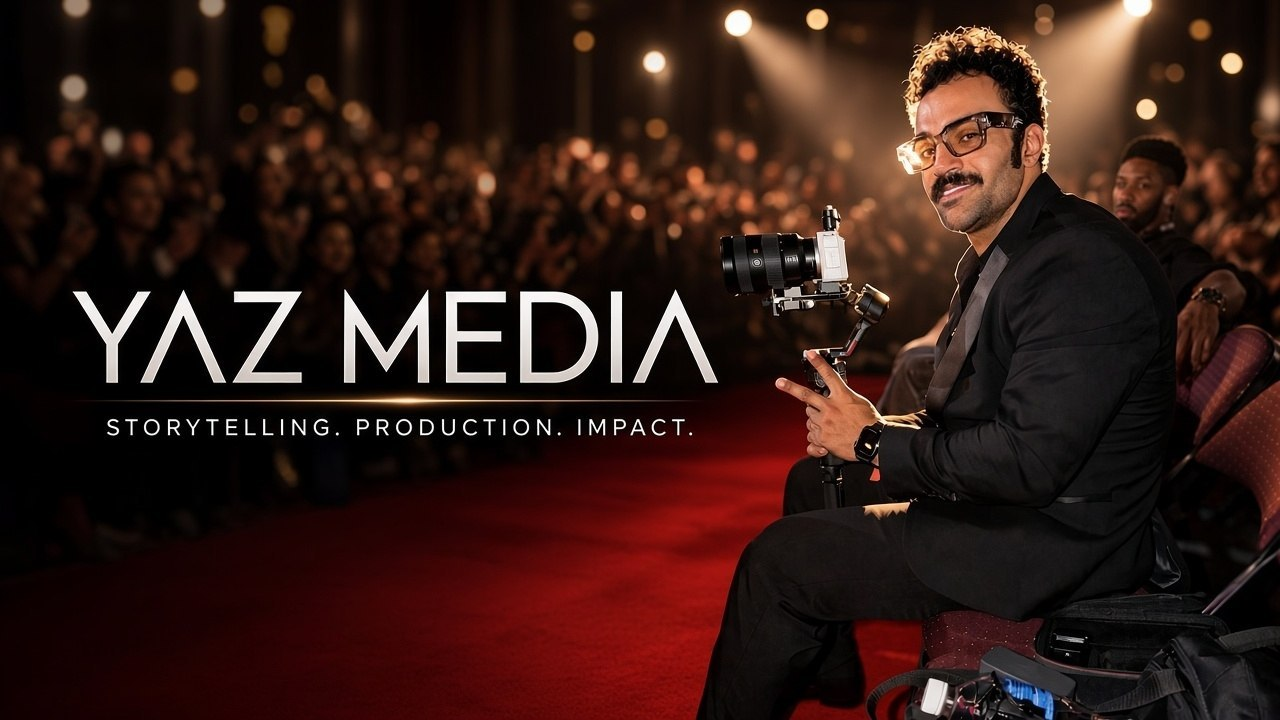
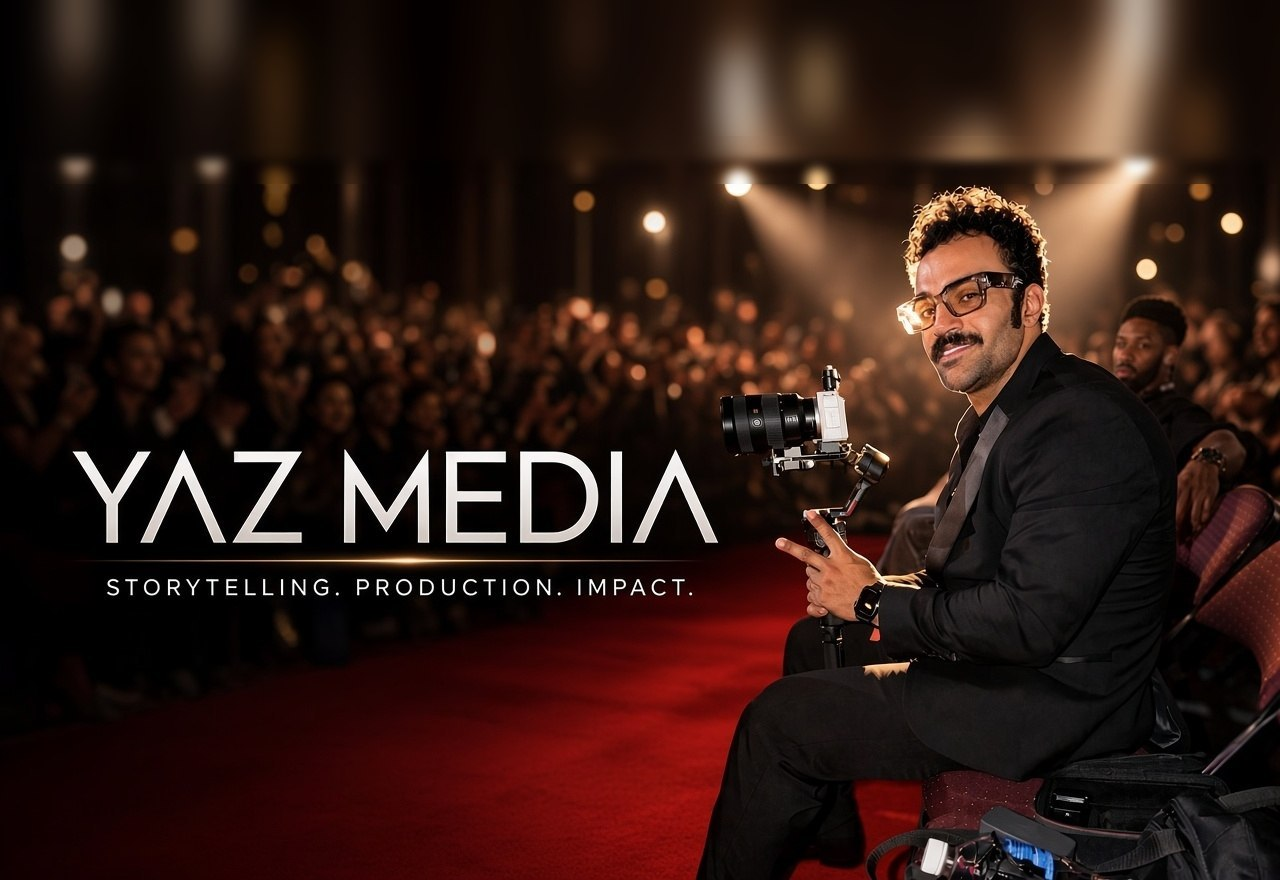
photos: hero headroom (blurred top extension so the subject clears the fixed header) + themed free-license stock photos from Wikimedia Commons across portfolio cards, featured work and services sections (CC0/PD/CC BY/CC BY-SA, credits in assets/img/stock/CREDITS.md); cache-busted stylesheet links

diff --git a/work.html b/work.html
@@ -9,7 +9,7 @@
   <link rel="stylesheet" href="css/fonts.css">
   <link rel="stylesheet" href="vendor/bootstrap/bootstrap.min.css">
   <link rel="stylesheet" href="vendor/icons/bootstrap-icons.css">
-  <link rel="stylesheet" href="css/theme.css">
+  <link rel="stylesheet" href="css/theme.css?v=3">
 </head>
 <body class="grain">
 
@@ -67,28 +67,28 @@
       <div class="row g-4">
         <div class="col-md-6 col-lg-4 work-grid-item reveal">
 <a class="work-card" href="contact.html" data-cat="wedding">
-            <img class="card-photo" src="assets/img/ropes.jpg" alt="" loading="lazy" style="object-position:center 30%;">
+            <img class="card-photo" src="assets/img/stock/stock-wedding-dance-1.jpg" alt="" loading="lazy" style="object-position:center 40%">
             <span class="dur">04:20</span><span class="play-hint"><i class="bi bi-play-fill" aria-hidden="true"></i></span>
             <div class="meta"><span class="cat">Wedding Film</span><span class="title">Amara &amp; Daniel — Big Sur Coast</span></div>
           </a>
         </div>
         <div class="col-md-6 col-lg-4 work-grid-item reveal reveal-d1">
 <a class="work-card" href="contact.html" data-cat="commercial">
-            <img class="card-photo" src="assets/img/tripod.jpg" alt="" loading="lazy" style="object-position:center top;">
+            <img class="card-photo" src="assets/img/stock/stock-hotel.jpg" alt="" loading="lazy" style="object-position:center 45%">
             <span class="dur">01:30</span><span class="play-hint"><i class="bi bi-play-fill" aria-hidden="true"></i></span>
             <div class="meta"><span class="cat">Commercial</span><span class="title">Westwind Hotels — "Stay Awhile"</span></div>
           </a>
         </div>
         <div class="col-md-6 col-lg-4 work-grid-item reveal reveal-d2">
 <a class="work-card" href="contact.html" data-cat="music">
-            <img class="card-photo" src="assets/img/crowd.jpg" alt="" loading="lazy" style="object-position:center 20%;">
+            <img class="card-photo" src="assets/img/stock/stock-crowd-concert.jpg" alt="" loading="lazy" style="object-position:center 55%">
             <span class="dur">03:05</span><span class="play-hint"><i class="bi bi-play-fill" aria-hidden="true"></i></span>
             <div class="meta"><span class="cat">Music Video</span><span class="title">"Golden Hour" — Pacific Arts Collective</span></div>
           </a>
         </div>
         <div class="col-md-6 col-lg-4 work-grid-item reveal">
 <a class="work-card" href="contact.html" data-cat="ceremony">
-            <img class="card-photo" src="assets/img/carpet.jpg" alt="" loading="lazy" style="object-position:left center;">
+            <img class="card-photo" src="assets/img/stock/stock-persian-wedding.jpg" alt="" loading="lazy" style="object-position:center 22%">
             <span class="dur">06:48</span><span class="play-hint"><i class="bi bi-play-fill" aria-hidden="true"></i></span>
             <div class="meta"><span class="cat">Ceremony Film</span><span class="title">A Multi-Day Persian Wedding — Beverly Hills</span></div>
           </a>
@@ -102,21 +102,21 @@
         </div>
         <div class="col-md-6 col-lg-4 work-grid-item reveal reveal-d2">
 <a class="work-card" href="contact.html" data-cat="wedding">
-            <img class="card-photo" src="assets/img/camera-close.jpg" alt="" loading="lazy" style="object-position:center 30%;">
+            <img class="card-photo" src="assets/img/stock/stock-winter-wedding.jpg" alt="" loading="lazy" style="object-position:center 30%">
             <span class="dur">05:12</span><span class="play-hint"><i class="bi bi-play-fill" aria-hidden="true"></i></span>
             <div class="meta"><span class="cat">Wedding Film</span><span class="title">Elise &amp; Noor — Lake Tahoe Winter</span></div>
           </a>
         </div>
         <div class="col-md-6 col-lg-4 work-grid-item reveal">
 <a class="work-card" href="contact.html" data-cat="event">
-            <img class="card-photo" src="assets/img/crowd.jpg" alt="" loading="lazy" style="object-position:center 75%;">
+            <img class="card-photo" src="assets/img/stock/stock-runway.jpg" alt="" loading="lazy" style="object-position:center top">
             <span class="dur">02:10</span><span class="play-hint"><i class="bi bi-play-fill" aria-hidden="true"></i></span>
             <div class="meta"><span class="cat">Event Coverage</span><span class="title">LA Bridal Week — Runway Highlights</span></div>
           </a>
         </div>
         <div class="col-md-6 col-lg-4 work-grid-item reveal reveal-d1">
 <a class="work-card" href="contact.html" data-cat="commercial">
-            <img class="card-photo" src="assets/img/camera-close.jpg" alt="" loading="lazy" style="object-position:center 12%;">
+            <img class="card-photo" src="assets/img/stock/stock-broadcast.jpg" alt="" loading="lazy" style="object-position:center 55%">
             <span class="dur">00:45</span><span class="play-hint"><i class="bi bi-play-fill" aria-hidden="true"></i></span>
             <div class="meta"><span class="cat">Commercial</span><span class="title">Sable &amp; Co. — "Made Slow"</span></div>
           </a>
@@ -130,14 +130,14 @@
         </div>
         <div class="col-md-6 col-lg-4 work-grid-item reveal">
 <a class="work-card" href="contact.html" data-cat="ceremony">
-            <img class="card-photo" src="assets/img/ropes.jpg" alt="" loading="lazy" style="object-position:center 65%;">
+            <img class="card-photo" src="assets/img/stock/stock-graduation.jpg" alt="" loading="lazy" style="object-position:center 55%">
             <span class="dur">08:02</span><span class="play-hint"><i class="bi bi-play-fill" aria-hidden="true"></i></span>
             <div class="meta"><span class="cat">Ceremony Film</span><span class="title">Graduation — Meridian Events, San Diego</span></div>
           </a>
         </div>
         <div class="col-md-6 col-lg-4 work-grid-item reveal reveal-d1">
 <a class="work-card" href="contact.html" data-cat="event">
-            <img class="card-photo" src="assets/img/tripod.jpg" alt="" loading="lazy" style="object-position:center 40%;">
+            <img class="card-photo" src="assets/img/stock/stock-concert.jpg" alt="" loading="lazy" style="object-position:center 50%">
             <span class="dur">01:55</span><span class="play-hint"><i class="bi bi-play-fill" aria-hidden="true"></i></span>
             <div class="meta"><span class="cat">Live Stream</span><span class="title">Annual Gala — Pacific Arts Collective</span></div>
           </a>

diff --git a/index.html b/index.html
@@ -12,7 +12,7 @@
   <link rel="stylesheet" href="css/fonts.css">
   <link rel="stylesheet" href="vendor/bootstrap/bootstrap.min.css">
   <link rel="stylesheet" href="vendor/icons/bootstrap-icons.css">
-  <link rel="stylesheet" href="css/theme.css">
+  <link rel="stylesheet" href="css/theme.css?v=3">
   <script type="application/ld+json">
   {
     "@context": "https://schema.org",
@@ -208,28 +208,28 @@
       <div class="row g-4">
         <div class="col-md-6 col-lg-4 work-grid-item reveal">
 <a class="work-card" href="work.html">
-            <img class="card-photo" src="assets/img/ropes.jpg" alt="" loading="lazy" style="object-position:center 30%;">
+            <img class="card-photo" src="assets/img/stock/stock-wedding-dance-1.jpg" alt="" loading="lazy" style="object-position:center 40%">
             <span class="dur">04:20</span><span class="play-hint"><i class="bi bi-play-fill" aria-hidden="true"></i></span>
             <div class="meta"><span class="cat">Wedding Film</span><span class="title">Amara &amp; Daniel — Big Sur Coast</span></div>
           </a>
         </div>
         <div class="col-md-6 col-lg-4 work-grid-item reveal reveal-d1">
 <a class="work-card" href="work.html">
-            <img class="card-photo" src="assets/img/tripod.jpg" alt="" loading="lazy" style="object-position:center top;">
+            <img class="card-photo" src="assets/img/stock/stock-hotel.jpg" alt="" loading="lazy" style="object-position:center top;">
             <span class="dur">01:30</span><span class="play-hint"><i class="bi bi-play-fill" aria-hidden="true"></i></span>
             <div class="meta"><span class="cat">Commercial</span><span class="title">Westwind Hotels — "Stay Awhile"</span></div>
           </a>
         </div>
         <div class="col-md-6 col-lg-4 work-grid-item reveal reveal-d2">
 <a class="work-card" href="work.html">
-            <img class="card-photo" src="assets/img/crowd.jpg" alt="" loading="lazy" style="object-position:center 20%;">
+            <img class="card-photo" src="assets/img/stock/stock-crowd-concert.jpg" alt="" loading="lazy" style="object-position:center 55%">
             <span class="dur">03:05</span><span class="play-hint"><i class="bi bi-play-fill" aria-hidden="true"></i></span>
             <div class="meta"><span class="cat">Music Video</span><span class="title">"Golden Hour" — Pacific Arts Collective</span></div>
           </a>
         </div>
         <div class="col-md-6 col-lg-4 work-grid-item reveal">
 <a class="work-card" href="work.html">
-            <img class="card-photo" src="assets/img/carpet.jpg" alt="" loading="lazy" style="object-position:left center;">
+            <img class="card-photo" src="assets/img/stock/stock-persian-wedding.jpg" alt="" loading="lazy" style="object-position:center 22%">
             <span class="dur">06:48</span><span class="play-hint"><i class="bi bi-play-fill" aria-hidden="true"></i></span>
             <div class="meta"><span class="cat">Ceremony Film</span><span class="title">A Multi-Day Persian Wedding — Beverly Hills</span></div>
           </a>
@@ -243,7 +243,7 @@
         </div>
         <div class="col-md-6 col-lg-4 work-grid-item reveal reveal-d2">
 <a class="work-card" href="work.html">
-            <img class="card-photo" src="assets/img/camera-close.jpg" alt="" loading="lazy" style="object-position:center 30%;">
+            <img class="card-photo" src="assets/img/stock/stock-film-set-1.jpg" alt="" loading="lazy" style="object-position:center 35%">
             <span class="dur">05:12</span><span class="play-hint"><i class="bi bi-play-fill" aria-hidden="true"></i></span>
             <div class="meta"><span class="cat">Documentary</span><span class="title">The Last Projectionist — Short Doc</span></div>
           </a>

diff --git a/services.html b/services.html
@@ -9,7 +9,7 @@
   <link rel="stylesheet" href="css/fonts.css">
   <link rel="stylesheet" href="vendor/bootstrap/bootstrap.min.css">
   <link rel="stylesheet" href="vendor/icons/bootstrap-icons.css">
-  <link rel="stylesheet" href="css/theme.css">
+  <link rel="stylesheet" href="css/theme.css?v=3">
 </head>
 <body class="grain">
 
@@ -69,6 +69,7 @@
           <a class="btn btn-gold mt-3" href="contact.html">Book a Crew</a>
         </div>
         <div class="col-lg-7 reveal reveal-d1">
+          <img class="svc-photo" src="assets/img/camera-close.jpg" alt="" loading="lazy">
           <div class="row g-3">
             <div class="col-sm-6"><div class="step"><div class="step-num" aria-hidden="true"><i class="bi bi-people"></i></div><h3>Half / Full Day</h3><p>A single operator or a complete team, booked by the day with equipment included.</p></div></div>
             <div class="col-sm-6"><div class="step"><div class="step-num" aria-hidden="true"><i class="bi bi-lightning-charge"></i></div><h3>48-Hour Booking</h3><p>Need a shooter tomorrow? Our standby crew covers urgent corporate and event jobs.</p></div></div>
@@ -125,6 +126,7 @@
           <a class="btn btn-gold mt-3" href="contact.html">Discuss a Project</a>
         </div>
         <div class="col-lg-7 reveal reveal-d1">
+          <img class="svc-photo" src="assets/img/stock/stock-film-set-1.jpg" alt="" loading="lazy">
           <div class="row g-3">
             <div class="col-sm-4"><div class="step"><div class="step-num" aria-hidden="true"><i class="bi bi-lightbulb"></i></div><h3>Concept</h3><p>Script, mood boards, and shot design before a single frame is shot.</p></div></div>
             <div class="col-sm-4"><div class="step"><div class="step-num" aria-hidden="true"><i class="bi bi-camera2"></i></div><h3>Production</h3><p>Full crew, permits, and locations handled by our producers.</p></div></div>
@@ -154,6 +156,7 @@
           <a class="btn btn-gold mt-3" href="contact.html">Check Your Date</a>
         </div>
         <div class="col-lg-7 reveal reveal-d1">
+          <img class="svc-photo" src="assets/img/stock/stock-wedding-dance-1.jpg" alt="" loading="lazy">
           <div class="row g-3">
             <div class="col-sm-6"><div class="step"><div class="step-num" aria-hidden="true"><i class="bi bi-heart"></i></div><h3>Elopements</h3><p>Intimate ceremonies on the coast, in the vineyards, or on a rooftop.</p></div></div>
             <div class="col-sm-6"><div class="step"><div class="step-num" aria-hidden="true"><i class="bi bi-stars"></i></div><h3>Grand Celebrations</h3><p>Three cameras, drone aerials, and a producer coordinating every moment.</p></div></div>
@@ -181,6 +184,7 @@
           <a class="btn btn-gold mt-3" href="contact.html">Get Streaming</a>
         </div>
         <div class="col-lg-7 reveal reveal-d1">
+          <img class="svc-photo" src="assets/img/stock/stock-broadcast.jpg" alt="" loading="lazy">
           <div class="row g-3">
             <div class="col-sm-6"><div class="step"><div class="step-num" aria-hidden="true"><i class="bi bi-wifi"></i></div><h3>Reliable Pipeline</h3><p>Bonded cellular + venue internet with a failover plan tested before doors open.</p></div></div>
             <div class="col-sm-6"><div class="step"><div class="step-num" aria-hidden="true"><i class="bi bi-display"></i></div><h3>IMAG &amp; Screens</h3><p>Live feed to venue screens, lower-thirds, and speaker graphics included.</p></div></div>

diff --git a/css/theme.css b/css/theme.css
@@ -179,7 +179,7 @@ a { cursor: pointer; }
   background: repeating-linear-gradient(0deg, transparent 0 3px, rgba(0, 0, 0, 0.1) 3px 4px);
   pointer-events: none;
 }
-.hero-inner { position: relative; z-index: 2; padding-block: 0 6.5rem; width: 100%; }
+.hero-inner { position: relative; z-index: 2; padding-block: 0 5rem; width: 100%; }
 .hero-copy { max-width: 36rem; }
 .hero-title {
   font-size: clamp(2.6rem, 6.4vw, 4.6rem);
@@ -485,6 +485,17 @@ a { cursor: pointer; }
 .work-filter .btn.active { background: var(--ym-gold); border-color: var(--ym-gold); color: #171310; font-weight: 600; }
 
 /* ---- process ----------------------------------------------------------------- */
+/* real photo above service detail blocks */
+.svc-photo {
+  width: 100%;
+  aspect-ratio: 16 / 9;
+  object-fit: cover;
+  border: 1px solid var(--ym-border);
+  border-radius: 4px;
+  margin-bottom: 1.2rem;
+  display: block;
+}
+
 .step { position: relative; padding: 1.6rem 1.4rem; border: 1px solid var(--ym-border); border-radius: 4px; background: var(--ym-card); height: 100%; }
 .step-num {
   font-family: "Playfair Display", serif;

diff --git a/about.html b/about.html
@@ -9,7 +9,7 @@
   <link rel="stylesheet" href="css/fonts.css">
   <link rel="stylesheet" href="vendor/bootstrap/bootstrap.min.css">
   <link rel="stylesheet" href="vendor/icons/bootstrap-icons.css">
-  <link rel="stylesheet" href="css/theme.css">
+  <link rel="stylesheet" href="css/theme.css?v=3">
 </head>
 <body class="grain">
 

diff --git a/contact.html b/contact.html
@@ -9,7 +9,7 @@
   <link rel="stylesheet" href="css/fonts.css">
   <link rel="stylesheet" href="vendor/bootstrap/bootstrap.min.css">
   <link rel="stylesheet" href="vendor/icons/bootstrap-icons.css">
-  <link rel="stylesheet" href="css/theme.css">
+  <link rel="stylesheet" href="css/theme.css?v=3">
 </head>
 <body class="grain">
 

diff --git a/assets/img/stock/CREDITS.md b/assets/img/stock/CREDITS.md
@@ -1,0 +1,17 @@
+# Photo credits — all images free licenses (Wikimedia Commons)
+
+| File | Title | Creator | License | Source page |
+|---|---|---|---|---|
+| stock-wedding-dance-1.jpg | Defense.gov News Photo 960509-O-0000F-001.jpg | U.S. Department of Defence | Public domain | https://commons.wikimedia.org/wiki/File:Defense.gov_News_Photo_960509-O-0000F-001.jpg |
+| stock-hotel.jpg | Atrium of Granada Luxury Belek Hotel.jpg | FingerWiki | CC BY-SA 4.0 | https://commons.wikimedia.org/wiki/File:Atrium_of_Granada_Luxury_Belek_Hotel.jpg |
+| stock-film-set-1.jpg | stock-film-set-1.jpg | unknown | see Commons |  |
+| stock-broadcast.jpg | 13-06-07 RaR Fujinon film camera.jpg | Achim Raschka (talk) | CC BY-SA 3.0 | https://commons.wikimedia.org/wiki/File:13-06-07_RaR_Fujinon_film_camera.jpg |
+| stock-persian-wedding.jpg | Gay Wedding in Toronto by Pouria Afkhami Canada 01.jpg | Pixoos | CC BY-SA 4.0 | https://commons.wikimedia.org/wiki/File:Gay_Wedding_in_Toronto_by_Pouria_Afkhami_Canada_01.jpg |
+| stock-winter-wedding.jpg | Edith & Biddie.jpg | JP Korpi-Vartiainen | CC BY-SA 4.0 | https://commons.wikimedia.org/wiki/File:Edith_%26_Biddie.jpg |
+| stock-concert.jpg | Festivaloflights (260619533).jpeg | Lgm 2008 2018 | CC BY-SA 3.0 | https://commons.wikimedia.org/wiki/File:Festivaloflights_(260619533).jpeg |
+| stock-graduation.jpg | Cardiff University Graduation Ceremony.jpg | Zureks | CC BY-SA 3.0 | https://commons.wikimedia.org/wiki/File:Cardiff_University_Graduation_Ceremony.jpg |
+| stock-runway.jpg | Ed Hardy Runway Models.jpg | Photo by Glenn Francis at www.PacificProDigital.com Toglenn | CC BY-SA 3.0 | https://commons.wikimedia.org/wiki/File:Ed_Hardy_Runway_Models.jpg |
+| stock-crowd-concert.jpg | A large crowd enjoys a music concert illuminated by colorful lights and a stunning stage display.jpg | Shixart1985 | CC BY 2.0 | https://commons.wikimedia.org/wiki/File:A_large_crowd_enjoys_a_music_concert_illuminated_by_colorful_lights_and_a_stunning_stage_display.jpg |
+
+Wedding/ceremony/film-set photos marked “Public domain” are U.S. federal works.
+CC BY-SA images are credited here as required by the license.

diff --git a/README.md b/README.md
@@ -30,7 +30,17 @@ Open `index.html` directly in a browser, or serve the folder with any static ser
 1. **Phone / email** — `(310) 555-0148` and `hello@yazmedia.com` are fictional (search & replace across the 5 HTML files).
 2. **Social links** — footer/chips point to `#`.
 3. **Showreel** — drop your video at `assets/showreel.mp4`; the homepage modal will play it automatically (until then it shows an honest placeholder).
-4. **Portfolio cards** — currently use crops from the two brand photos (`assets/img/`, generated from the Telegram brand images via `_tmp-scripts/crop_photos.py`); swap each card's inline `--img` for that project's real thumbnail.
+4. **Portfolio cards** — mix of free-license stock photos (`assets/img/stock/`, credits in `assets/img/stock/CREDITS.md` — keep them there, CC BY-SA requires attribution) and crops of the brand photos; swap each card for that project's real thumbnail when the film is delivered.
+
+## Photos
+
+- `assets/img/hero-main.jpg` + `src-*.jpg` — the two brand images (Telegram). The hero has a
+  blurred 160px top extension (`_tmp-scripts/extend_hero.py`) so the man's head clears the fixed header.
+- `assets/img/*.jpg` — text-free crops of those brand photos for section backgrounds
+  (`_tmp-scripts/crop_photos.py` regenerates them; brightness-tunable).
+- `assets/img/stock/` — themed stock photos fetched from **Wikimedia Commons** via the Commons API
+  (`_tmp-scripts/commons_fetch.py`), CC0/PD/CC BY/CC BY-SA only, normalized to max 1280px q82.
+  Credits: `assets/img/stock/CREDITS.md` — do not delete (CC BY-SA license requires attribution).
 5. **Stats, testimonials, client names, team bios, pricing** — sample content written to look real; replace with your actual numbers/reviews.
 6. **Contact form** — front-end validation only; connect a backend (Formspree, Netlify Forms, or your server) in `js/main.js` (`#contactForm` handler).
 7. **SEO** — add your real domain to the JSON-LD block in `index.html` and create OG images.
